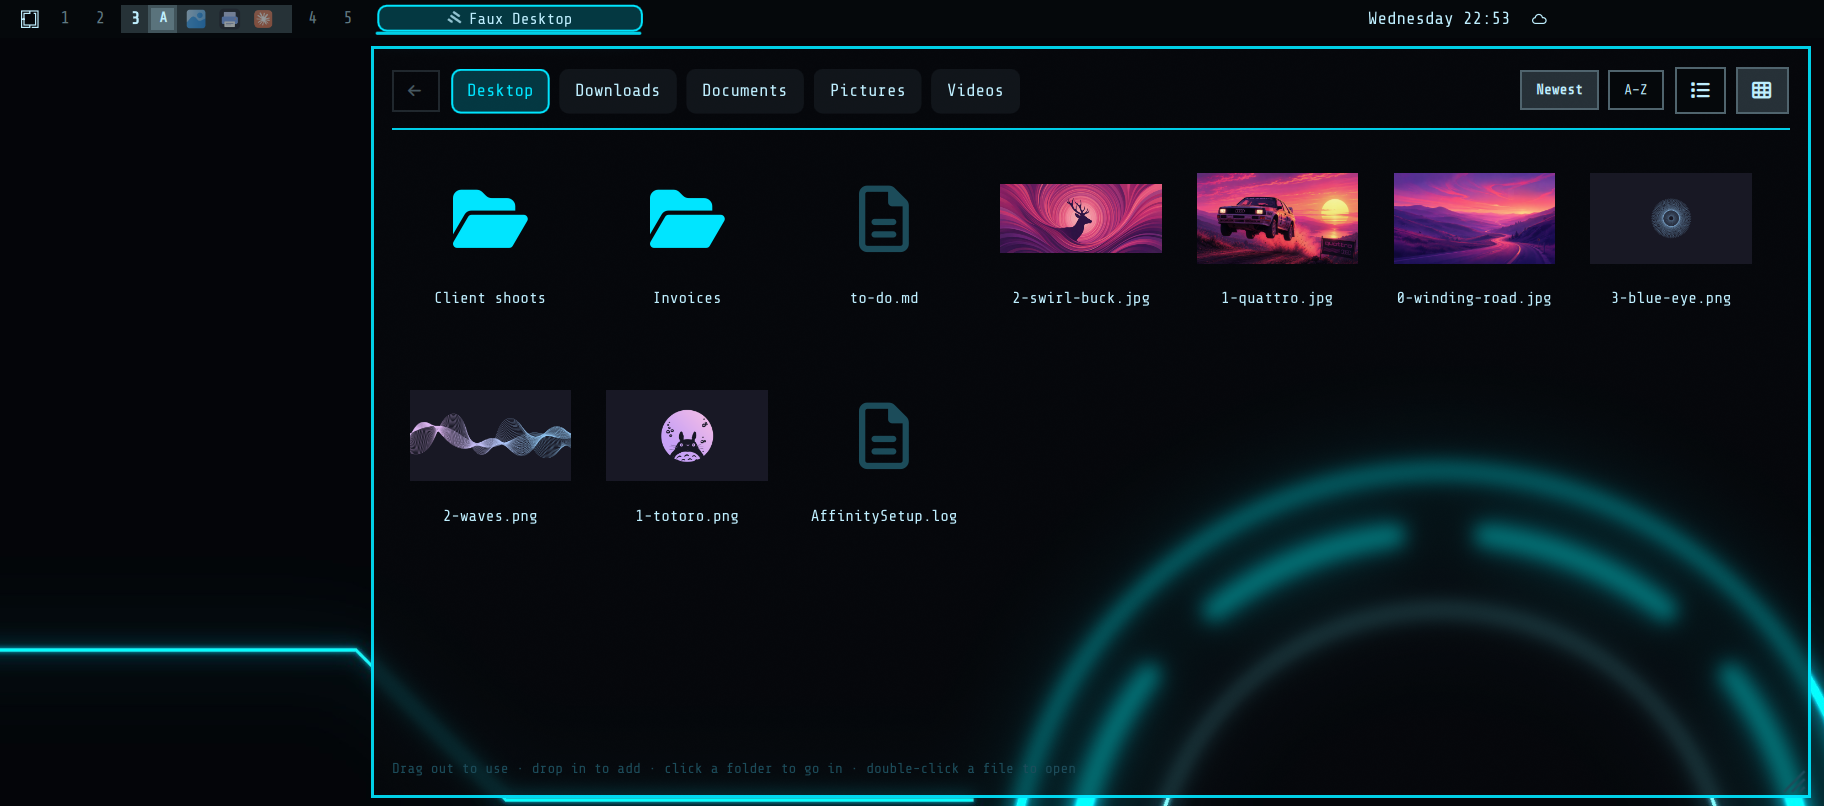
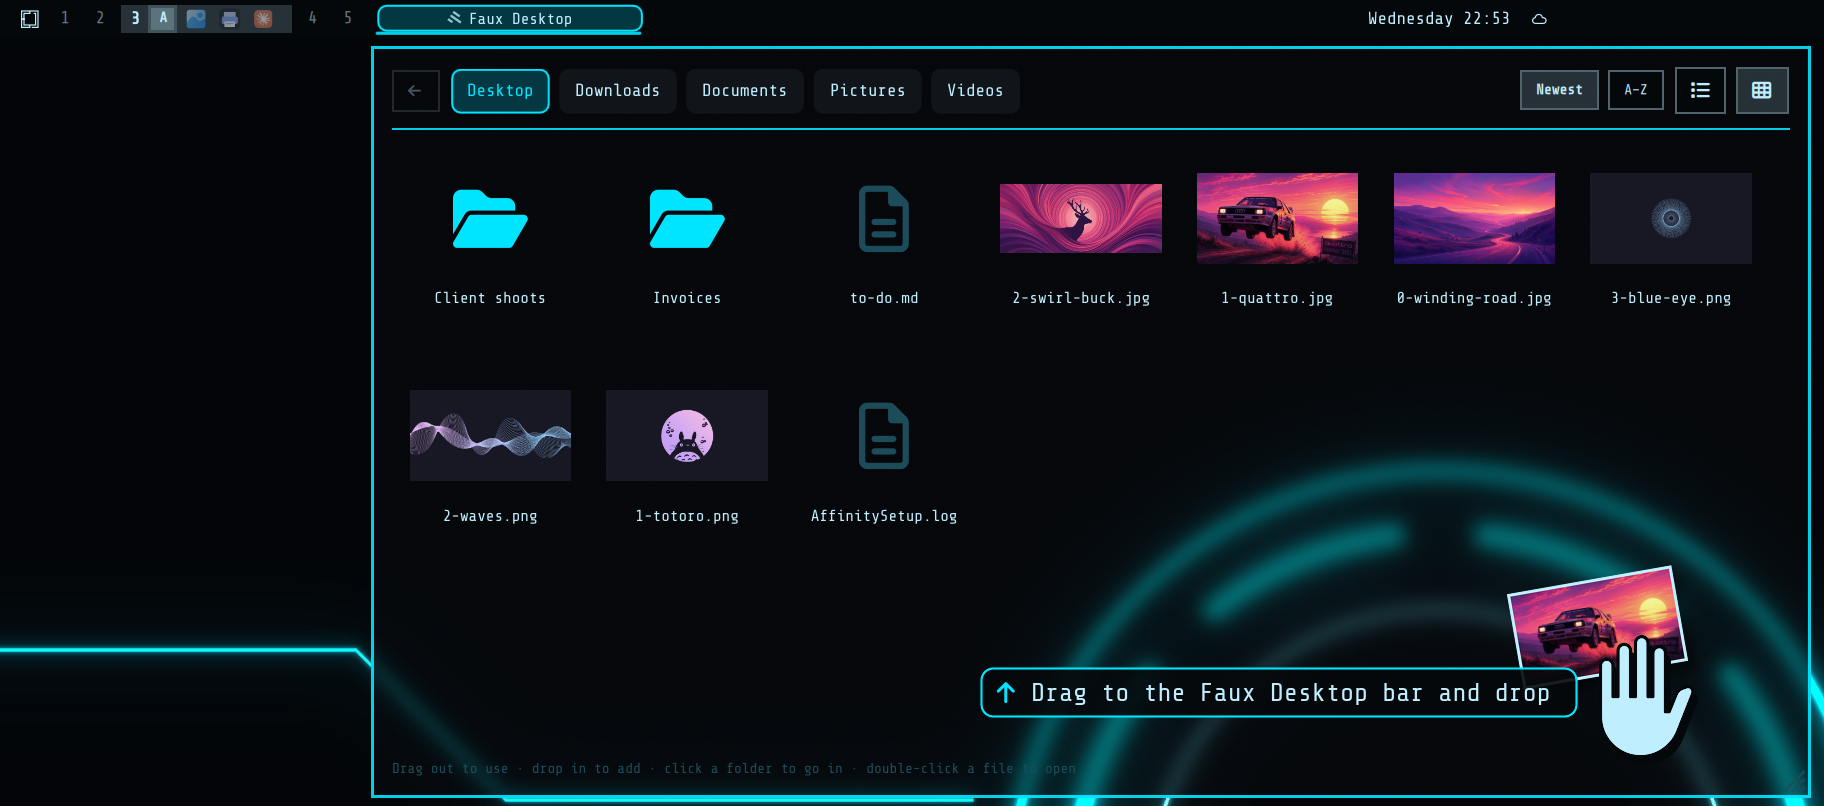
Preview: show dragging a file to the bar; spell out spring-loaded folders in How it works

Changed region(s): [[0.5312, 0.6824, 0.9375, 0.9305]]

diff --git a/README.md b/README.md
@@ -15,11 +15,15 @@ files in, and open folders inside it, spring-loaded like on macOS.
    of the way when you let go.
 3. **Put a file in:** drag it from any app onto the Faux Desktop box. Let go
    right away to drop it on the Desktop, or hold it there for a moment and the
-   panel opens so you can drop it into a folder. Hold over a folder and it
-   springs open, and hold over ← to go back up.
-4. **Look elsewhere:** the buttons along the top switch to Downloads, Documents,
+   panel opens so you can drop it into a folder.
+4. **Spring-loaded folders**, as on macOS: while dragging, hold over a folder
+   for 0.4 seconds and it springs open, so you can go as deep as you like before
+   letting go. Hold over ← to spring back up a level, or over a pinned folder
+   button to jump to Downloads, Documents and so on. A sweep across the target
+   shows the wait.
+5. **Look elsewhere:** the buttons along the top switch to Downloads, Documents,
    Pictures or Videos. Click a folder to go into it.
-5. **Move away** and the panel closes. Next time it opens on the Desktop again.
+6. **Move away** and the panel closes. Next time it opens on the Desktop again.
 
 ![Faux Desktop in list view](screenshots/list-view.png)
 
